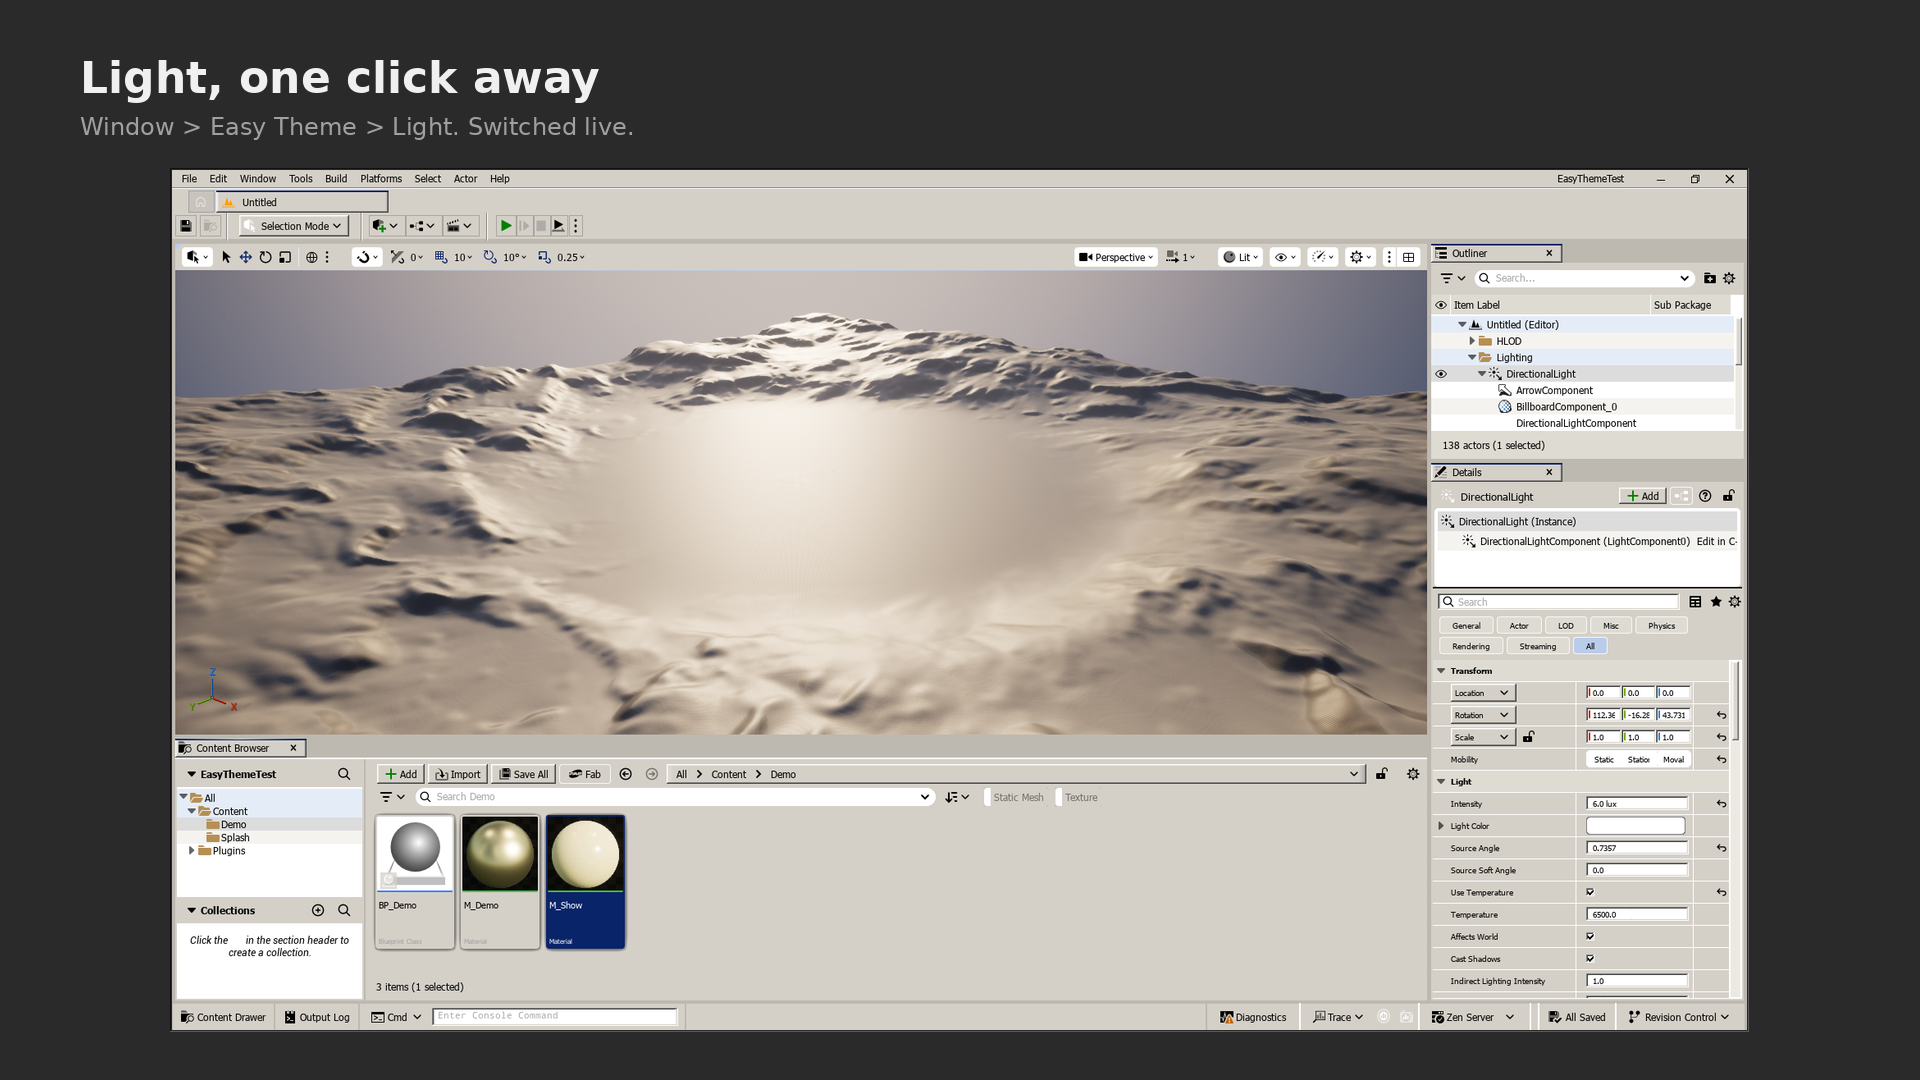
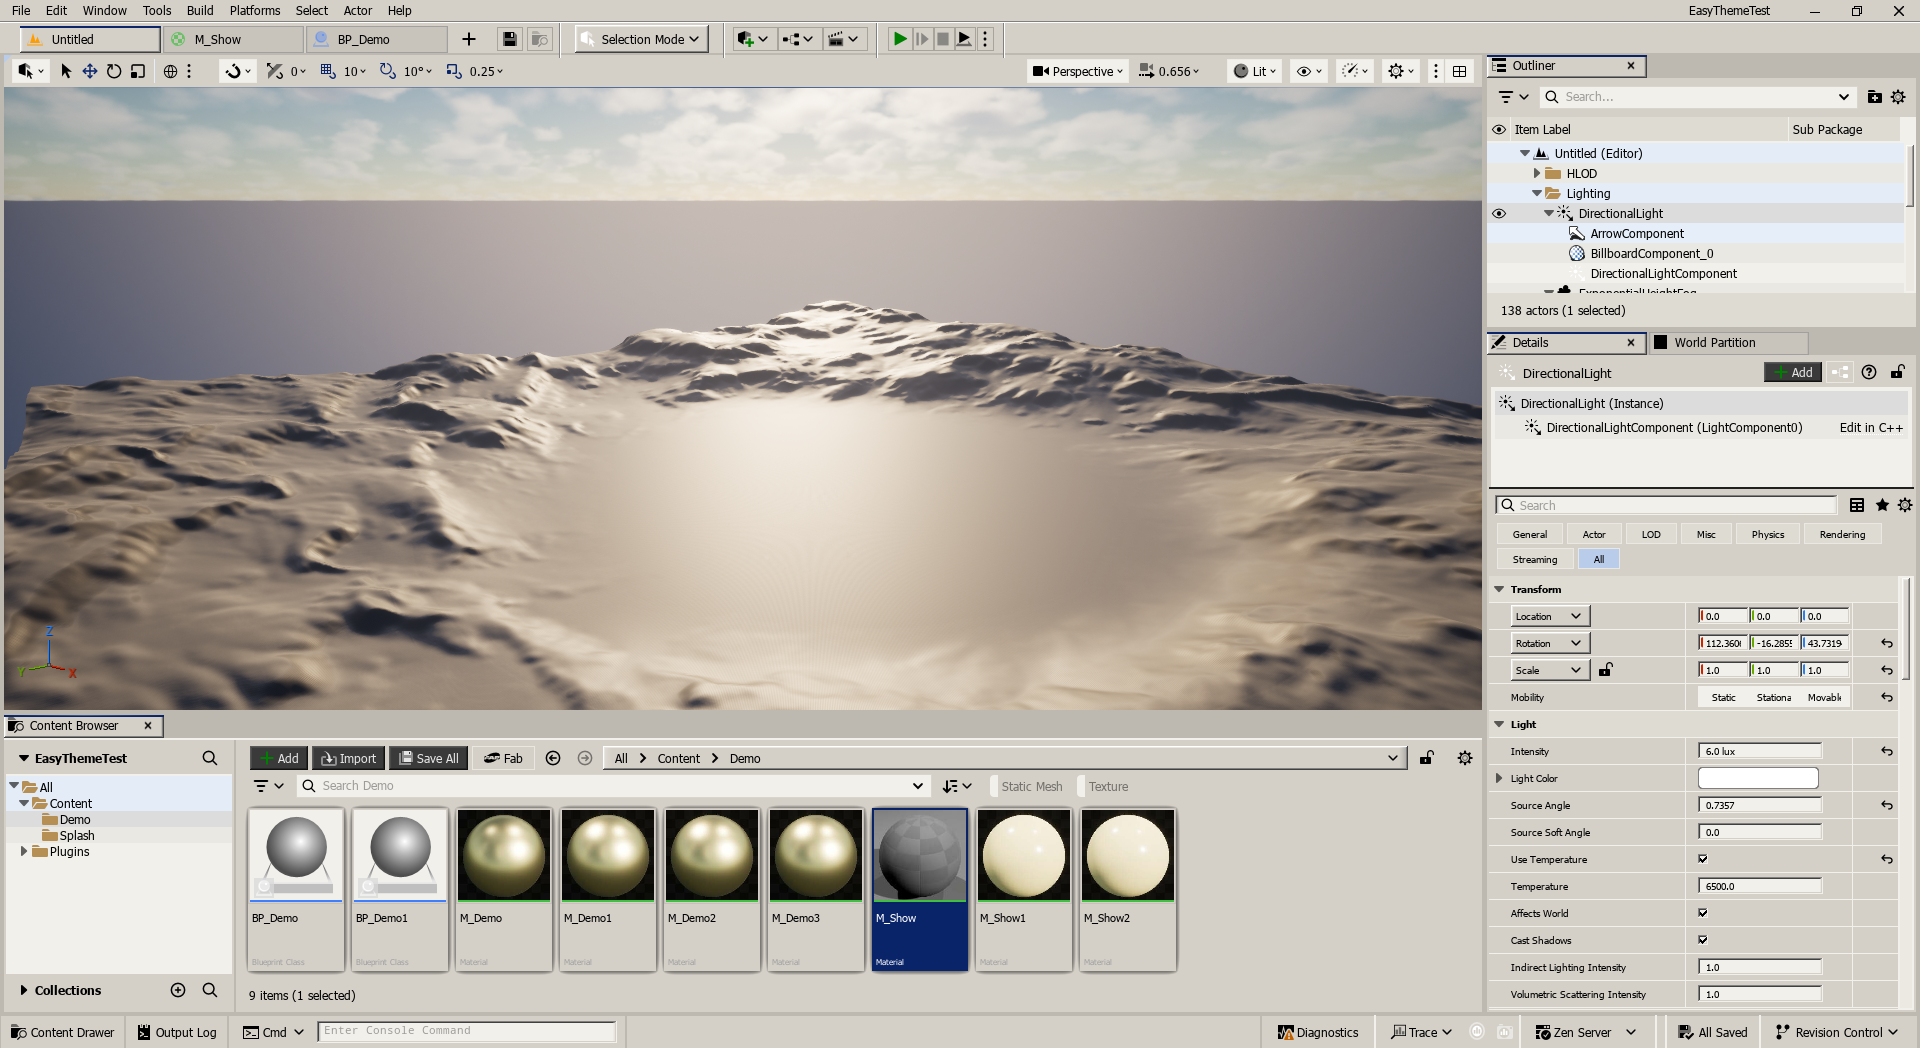
Public page, release notes, download instructions

diff --git a/docs/index.html b/docs/index.html
@@ -3,8 +3,8 @@
 <head>
 <meta charset="utf-8">
 <meta name="viewport" content="width=device-width, initial-scale=1">
-<title>Easy Theme for Unreal Engine 5 – free editor theme, Dark and Light</title>
-<meta name="description" content="Free, open-source editor theme for Unreal Engine 5. Clean, compact, high-clarity: square controls, crisp 1-pixel frames, readable text in every panel. Dark by default, Light included.">
+<title>Easy Theme for Unreal Engine 5 – free editor theme: Dark, Light, Compact</title>
+<meta name="description" content="Free, open-source editor theme for Unreal Engine 5. Compact and readable, square controls, crisp frames. Three looks: Dark, Light, Compact (Unreal's own colours).">
 <meta name="keywords" content="Unreal Engine 5, UE5, UE 5.8, Unreal Editor theme, editor skin, dark theme, light theme, classic theme, compact UI, Slate style, editor plugin, free plugin, open source, readability">
 <meta name="author" content="MapModelers">
 <link rel="canonical" href="https://mapmodelers.github.io/ue5-theme-easy/">
@@ -13,14 +13,14 @@
 <meta property="og:type" content="website">
 <meta property="og:url" content="https://mapmodelers.github.io/ue5-theme-easy/">
 <meta property="og:title" content="Easy Theme for Unreal Engine 5">
-<meta property="og:description" content="Clean. Compact. Readable. Free editor theme, Dark by default, Light included.">
+<meta property="og:description" content="Compact, readable editor theme. Dark, Light, Compact. Free.">
 <meta property="og:image" content="https://mapmodelers.github.io/ue5-theme-easy/media/social.png">
 <meta property="og:image:width" content="1280">
 <meta property="og:image:height" content="640">
-<meta property="og:image:alt" content="Unreal Editor with Easy Theme">
+<meta property="og:image:alt" content="Unreal Editor with Easy Theme: Dark, Light, Compact">
 <meta name="twitter:card" content="summary_large_image">
 <meta name="twitter:title" content="Easy Theme for Unreal Engine 5">
-<meta name="twitter:description" content="Clean. Compact. Readable. Free editor theme, Dark by default, Light included.">
+<meta name="twitter:description" content="Compact, readable editor theme. Dark, Light, Compact. Free.">
 <meta name="twitter:image" content="https://mapmodelers.github.io/ue5-theme-easy/media/social.png">
 <script type="application/ld+json">
 {
@@ -30,7 +30,7 @@
   "applicationCategory": "DeveloperApplication",
   "operatingSystem": "Windows",
   "softwareVersion": "0.2.4",
-  "description": "Clean, compact, high-clarity editor theme for Unreal Engine 5. Dark by default, Light included.",
+  "description": "Compact, readable editor theme for Unreal Engine 5. Dark, Light, Compact.",
   "url": "https://mapmodelers.github.io/ue5-theme-easy/",
   "downloadUrl": "https://github.com/mapmodelers/ue5-theme-easy/releases/latest",
   "license": "https://opensource.org/licenses/MIT",
@@ -71,33 +71,22 @@
   <div class="title">Easy Theme</div>
   <main class="body">
     <h1>Easy Theme for Unreal Engine 5</h1>
-    <p class="lead">Clean. Compact. Readable. Dark by default, Light included. Free and open source.</p>
+    <p class="lead">Compact. Readable. Dark, Light or Compact. Free and open source.</p>
     <a class="btn main" href="https://github.com/mapmodelers/ue5-theme-easy/releases/latest">Download</a>
     <a class="btn" href="https://github.com/mapmodelers/ue5-theme-easy">Source on GitHub</a>
     <a class="btn" href="https://github.com/mapmodelers/ue5-theme-easy/issues">Support</a>
     <hr class="etch">
 
-    <img class="shot" src="media/hero.png" width="1920" height="944" alt="Unreal Editor with Easy Theme, Dark, on a real project">
-
     <img class="shot" src="media/dark.png" width="1920" height="1048" alt="Unreal Editor with Easy Theme, Dark">
-    <p class="cap">Dark, the default. Square controls, crisp 1-pixel frames, compact toolbars.</p>
+    <p class="cap">Dark</p>
 
     <img class="shot" src="media/light.png" width="1920" height="1048" alt="Unreal Editor with Easy Theme, Light">
-    <p class="cap">Light, switched live from Window &gt; Easy Theme.</p>
+    <p class="cap">Light</p>
 
-    <div class="grid">
-      <img class="shot" src="media/graph-light.png" width="1505" height="693" alt="Material graph, Light Graphs">
-      <img class="shot" src="media/graph-dark.png" width="1505" height="693" alt="Material graph, Dark">
-    </div>
-    <p class="cap">Graphs follow the mode. Your grid colours are always restored.</p>
+    <img class="shot" src="media/compact.png" width="1920" height="1048" alt="Unreal Editor with Easy Theme, Compact">
+    <p class="cap">Compact: Unreal's own colours, compact layout.</p>
 
-    <div class="grid">
-      <img class="shot" src="media/toolbar-dark.png" width="1120" height="280" alt="Toolbar, Dark">
-      <img class="shot" src="media/toolbar-light.png" width="1120" height="280" alt="Toolbar, Light">
-    </div>
-    <p class="cap">Pixel-exact bevels, no blur.</p>
-
-    <img class="shot" src="media/blueprint-dark.png" width="1920" height="1048" alt="Blueprint editor with Easy Theme, Dark">
+    <img class="shot" src="media/graph.png" width="1920" height="1048" alt="Material graph with Easy Theme, Dark">
     <p class="cap">Every editor, every panel.</p>
     <hr class="etch">
 

diff --git a/README.md b/README.md
@@ -2,93 +2,61 @@
 
 [Download](https://github.com/mapmodelers/ue5-theme-easy/releases/latest) · [Presentation page](https://mapmodelers.github.io/ue5-theme-easy/) · Free on Fab (coming) · MIT
 
-**Clean, compact, high-clarity editor theme. Dark by default, Light included.**
+**Compact, readable editor theme. Three looks: Dark, Light, Compact.**
 
-![Easy Theme for Unreal Engine](docs/media/social.png)
-
-![Easy Theme, Dark](docs/media/dark.png)
-
-Easy Theme restyles the whole Unreal Editor in a calm, classic desktop style: square controls, crisp 1-pixel frames and readable text in every panel. Switch between Dark and Light live from **Window > Easy Theme**.
-
-## Features
-
-- **Dark and Light.** Dark by default, Light one click away. The switch is live.
-- **Compact.** Thinner tabs and toolbars, 16 px toolbar icons and tighter padding fit more content on screen.
-- **Pixel-exact.** Bevelled buttons, sunken fields, square tabs, checkboxes and scrollbars, with no blurred edges.
-- **Readable everywhere.** Fixes the editor's hard-coded colours (Place Actors, Content Browser, search fields and more) so no panel stays dark or turns unreadable.
-- **Graphs follow the mode.** Square nodes; in Light, Blueprint and Material graphs sit on a light canvas (toggle: Light Graphs).
-- **Slim title bar.** No oversized logo, so more room for your work.
-- **Optional layout.** "Easy Theme - 3 Panes" in **Window > Load Layout**: viewport, Content Browser docked below, Outliner over Details.
-- **Editor-only.** No engine changes and no effect on your game. To remove it, disable the plugin.
+![Dark](docs/media/dark.png)
 
 ![Light](docs/media/light.png)
 
-| Dark | Light |
-|---|---|
-| ![](docs/media/toolbar-dark.png) | ![](docs/media/toolbar-light.png) |
+![Compact: Unreal's own colours, compact layout](docs/media/compact.png)
 
-| Light Graphs | Dark |
-|---|---|
-| ![](docs/media/graph-light.png) | ![](docs/media/graph-dark.png) |
+![Material graph, Dark](docs/media/graph.png)
 
-![Blueprint editor, Dark](docs/media/blueprint-dark.png)
+## Features
+
+- **Dark, Light, Compact.** Compact keeps Unreal's own colours with the compact layout.
+- **More room.** Tabs and main toolbar on one row, thinner toolbars, square corners, slim title bar.
+- **Readable everywhere.** Text and colour fixes in every panel, including plugin editors and floating windows.
+- **Editor-only.** No engine changes, no effect on your game, no telemetry.
 
 ## Install
 
-1. Download the `EasyTheme-…-UE5.8-Win64.zip` from [Releases](https://github.com/mapmodelers/ue5-theme-easy/releases/latest). It is prebuilt: no compiler needed.
-2. Unzip it into your project's `Plugins` folder (`MyProject/Plugins/EasyTheme`), or into `Engine/Plugins/Marketplace` for every project.
-3. Start the editor. The theme applies at startup.
+1. Download `EasyTheme-…-UE5.8-Win64.zip` from [Releases](https://github.com/mapmodelers/ue5-theme-easy/releases/latest) (prebuilt).
+2. Unzip into `MyProject/Plugins/`, or `Engine/Plugins/Marketplace/` for every project.
+3. Start the editor.
 
-From source: copy `Plugin/EasyTheme` instead (Visual Studio required, the editor compiles it on first launch).
+From source: copy `Plugin/EasyTheme` instead (Visual Studio required).
 
 ## Use
 
 | Where | What |
 |---|---|
-| Window > Easy Theme > Dark / Light / Compact | Switch the theme (Dark/Light live; Compact = Unreal's own colours, at next start) |
-| Window > Easy Theme > Light Graphs | Light canvas for graphs in Light mode (on by default) |
-| Window > Easy Theme > Refresh UI | Rebuild every panel in the current theme |
-| Window > Easy Theme > Use 3-Pane Layout | Optional compact layout (also in Window > Load Layout) |
-| Window > Easy Theme > Show Home Tab | Unreal's Home tab (hidden by default, at next start) |
-| Window > Easy Theme > Toolbar in Tab Bar | Tabs and the main toolbar on one row, + button for recent levels and assets (on by default) |
-| Window > Easy Theme > Check for Updates | Asks GitHub for a newer release; GitHub installs can install it when Unreal closes |
-| Window > Easy Theme > Report a Bug... | Pre-filled GitHub issue + local screenshot and cleaned-up log to attach (optional) |
-| Window > Easy Theme > Remove Saved Settings | Delete the files Easy Theme saved |
-| Console `EasyTheme.Dark 1` / `0` | Same switch from the console |
+| Window > Easy Theme > Dark / Light / Compact | Switch look (Compact applies at next start) |
+| Window > Easy Theme > Light Graphs | Light graph canvas in Light |
+| Window > Easy Theme > Use 3-Pane Layout | Viewport, Content Browser below, Outliner over Details |
+| Window > Easy Theme > Show Home Tab | Hidden by default |
+| Window > Easy Theme > Toolbar in Tab Bar | One row for tabs and toolbar, + for recent levels and assets |
+| Window > Easy Theme > Check for Updates | Installs a newer release when Unreal closes |
+| Window > Easy Theme > Report a Bug... | Pre-filled GitHub issue, screenshot and cleaned-up log to attach |
+| Window > Easy Theme > Remove Saved Settings | Deletes everything Easy Theme saved |
 
-A few engine panels keep a private copy of their look until the next restart. After a switch, the plugin offers to restart.
+Some panels pick up a new look only after a restart; Easy Theme offers it.
 
 ## Uninstall
 
-1. Optional: Window > Easy Theme > Remove Saved Settings deletes what it saved and restores your graph grid colours.
-2. Disable Easy Theme in Edit > Plugins, or remove it from the Epic Games Launcher, then restart. The editor's own look comes back; nothing else changes.
+Optional: Window > Easy Theme > Remove Saved Settings. Then disable Easy Theme in Edit > Plugins and restart.
+
+## Privacy
+
+No telemetry. The only network access is **Check for Updates**, when you click it (GitHub, SHA-256 checked, previous version kept as a backup). Settings are stored in your Unreal user folders; Remove Saved Settings deletes them. The Home tab setting is one line in your user `UserEngine.ini`.
 
 ## Compatibility
 
-- Unreal Engine 5.8, Windows (Win64).
-- The UI font is Tahoma, loaded from Windows. Easy Theme ships no font files.
-
-## Keywords
-
-Unreal Engine, UE5, editor theme, dark theme, light theme, compact UI, classic UI, Slate, editor plugin, readability, productivity
-
-## Privacy and safety
-
-- No telemetry, no data collection. The only network access is **Check for Updates**, and only when you click it: it asks GitHub for the latest release and, if you accept, downloads it, checks its SHA-256 and installs it when Unreal closes (your previous version is kept as a backup in `Saved/EasyTheme/Update`). "Report a Bug" only opens your browser and a local folder; you choose what to attach (the log has your user name and folders removed).
-- Editor-only: your game, your project content and the engine install are never modified.
-- Files it writes, all in your Unreal user folders:
-  - the Dark/Light and Light Graphs choices, in the editor settings (`[EasyTheme]`)
-  - a backup of your graph grid colours while Light Graphs is on (your Editor Preferences keep your own values; they are restored on Dark, on exit and after a crash)
-  - one layout file, "Easy Theme - 3 Panes", in the user layouts folder
-- Window > Easy Theme > Remove Saved Settings deletes all of it and restores your grid colours.
+Unreal Engine 5.8, Windows (Win64). UI font: Tahoma, from Windows.
 
 ## License
 
-MIT. Free to use, modify and redistribute; see [LICENSE](LICENSE).
-
-## Support
-
-Issues and requests: [GitHub Issues](https://github.com/mapmodelers/ue5-theme-easy/issues)
+MIT, see [LICENSE](LICENSE). Issues and requests: [GitHub Issues](https://github.com/mapmodelers/ue5-theme-easy/issues)
 
 ---
-Made by MapModelers. Unreal and Unreal Engine are trademarks of Epic Games, Inc. This plugin is not affiliated with or endorsed by Epic Games.
+Made by MapModelers. Unreal and Unreal Engine are trademarks of Epic Games, Inc. Not affiliated with or endorsed by Epic Games.
